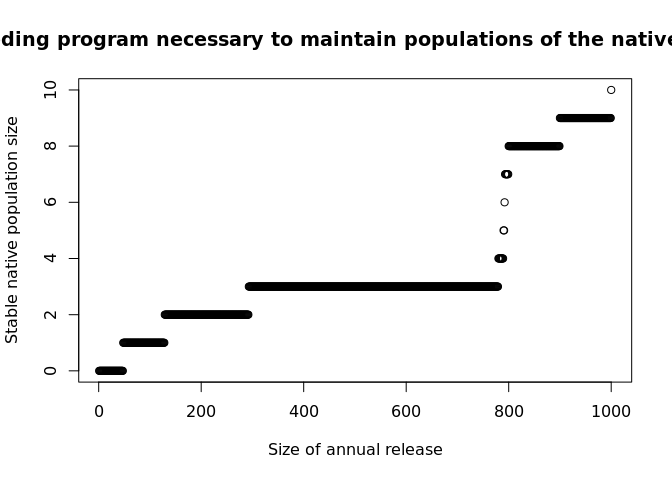
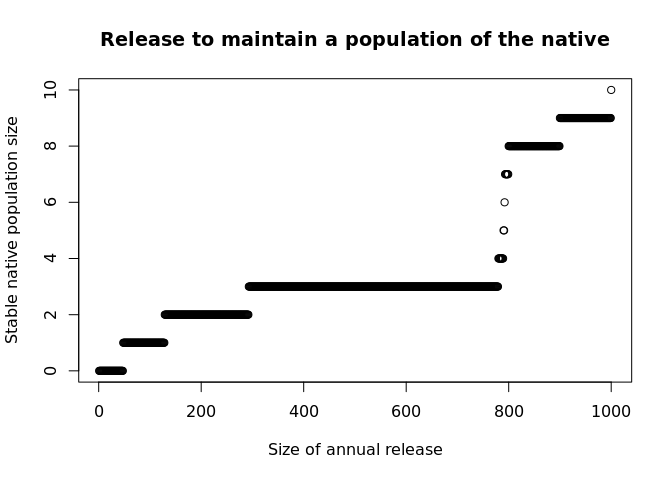
fix couple of gaps

Changed region(s): [[0.0, 0.0625, 1.0, 0.125]]

diff --git a/mink-invasion.html b/mink-invasion.html
@@ -714,7 +714,8 @@ r_y y \left( 1 - \frac{y + \alpha_{yx} x}{K} \right)"></embed></p>
 \frac{\textrm{d}y}{\textrm{d}t} = 
 \left( r_y y + h_y \right) \left( 1 - \frac{y}{K} \right) -
 m_y y"></embed></p>
[2 lines of base64/hex data omitted]
+<p>Let’s write this out.</p>
 <div class="sourceCode" id="cb9"><pre class="sourceCode r"><code class="sourceCode r"><a class="sourceLine" id="cb9-1" title="1">catford &lt;-<span class="st"> </span><span class="cf">function</span>(</a>
 <a class="sourceLine" id="cb9-2" title="2">        X,</a>
 <a class="sourceLine" id="cb9-3" title="3">        <span class="dt">hx =</span> <span class="dv">0</span>,</a>
@@ -776,9 +777,9 @@ m_y y"></embed></p>
 <a class="sourceLine" id="cb13-3" title="3">        hx, res,</a>
 <a class="sourceLine" id="cb13-4" title="4">        <span class="dt">xlab =</span> <span class="st">&quot;Size of annual release&quot;</span>,</a>
 <a class="sourceLine" id="cb13-5" title="5">        <span class="dt">ylab =</span> <span class="st">&quot;Stable native population size&quot;</span>,</a>
-<a class="sourceLine" id="cb13-6" title="6">        <span class="dt">main =</span> <span class="st">&quot;Size of breeding program necessary to maintain populations of the native after 50 years&quot;</span>,</a>
+<a class="sourceLine" id="cb13-6" title="6">        <span class="dt">main =</span> <span class="st">&quot;Release to maintain a population of the native&quot;</span>,</a>
 <a class="sourceLine" id="cb13-7" title="7">)</a></code></pre></div>
[3 lines of base64/hex data omitted]
 <p>Another way that we can improve the chances of the native mink is to increase the mortality rate of the invader. Since the only habitat patches that the native species is able to colonise are those which are empty (i.e. those vacated by death), increasing the rate of death increases the number of patches available to the native. This could be achieved via a culling program. We will look at this in the exercise.</p>
 <p>There are some problems with this model. Firstly, it’s somewhat unrealistic to assume that the American mink will <em>always</em> be able to displace the European mink if they compete for habitat. The invasive may be larger <em>on average</em>, but there will be cases where a larger-than-average European mink is able to displace (or resist displacement by) an American mink. We could incorporate this into the model by allowing the natives to colonise some territories occupied by the invasive, and also by preventing the invasive from colonising <em>all</em> of the territories held by the native. Secondly, we know that human-caused disturbance will be impacting these populations too – we should really account for this. Also, it seems presumptuous to assume that the mortality rate of the mink is not part of the tradeoff that they make. I (Jonathan) will be incorporating all of these factors (and more) into this model as part of my PhD!</p>

diff --git a/mink-invasion.md b/mink-invasion.md
@@ -387,7 +387,15 @@ representing colonisation of new territories, and the second part
 representing loss of territory due to death or displacement. In the case
 of the native European mink
 (![x](https://latex.codecogs.com/png.image?%5Cdpi%7B110%7D&space;%5Cbg_white&space;x
-"x")), the proportion of patches avaiable to it for colonisation is
+"x")), the patches available to it for colonisation are only those that
+are not already occupied by either the native or the invasive. The
+European mink loses habitat patches only via mortality or displacement
+from the invasive. In the case of the American mink, it is able to
+colonise patches that are either empty or occupied by the European mink
+– since it is competitively dominant. It will only lose patches due to
+mortality, since the European mink is unable to displace it.
+
+Let’s write this out.
 
 ``` r
 catford <- function(
@@ -468,7 +476,7 @@ plot(
         hx, res,
         xlab = "Size of annual release",
         ylab = "Stable native population size",
-        main = "Size of breeding program necessary to maintain populations of the native after 50 years",
+        main = "Release to maintain a population of the native",
 )
 ```
 
